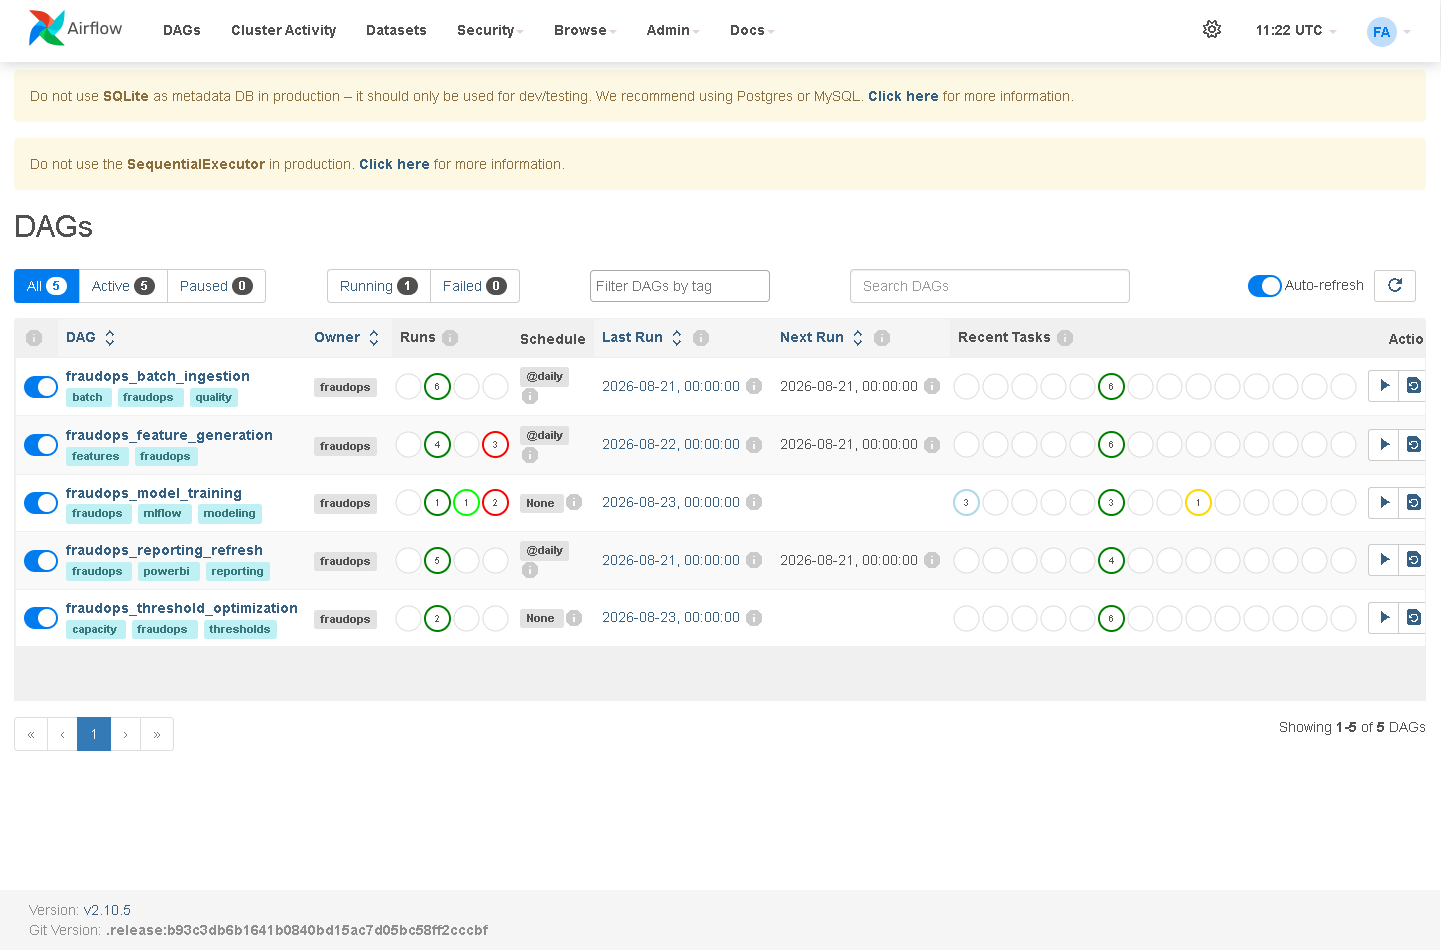
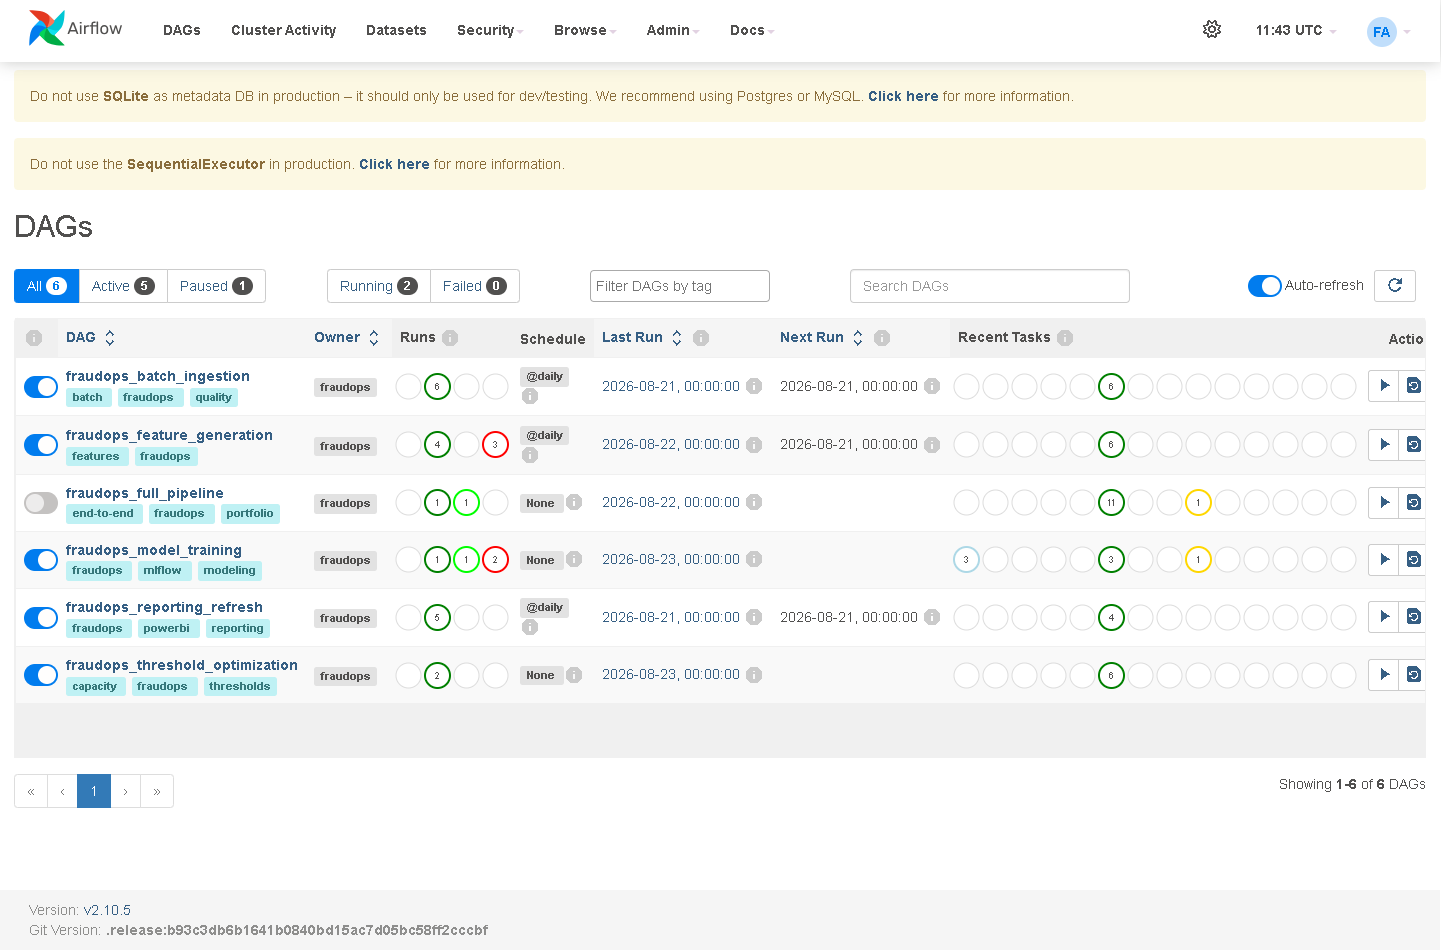
Add full pipeline DAG and governance docs

diff --git a/airflow/dags/fraudops_full_pipeline.py b/airflow/dags/fraudops_full_pipeline.py
@@ -1,0 +1,80 @@
+from __future__ import annotations
+
+from datetime import datetime
+
+from airflow import DAG
+
+from _fraudops_common import DEFAULT_ARGS, PYTHON, project_bash
+
+with DAG(
+    dag_id="fraudops_full_pipeline",
+    description="End-to-end FraudOps pipeline for local container walkthroughs.",
+    default_args=DEFAULT_ARGS,
+    start_date=datetime(2026, 7, 1),
+    schedule=None,
+    catchup=False,
+    tags=["fraudops", "end-to-end", "portfolio"],
+) as dag:
+    verify_sample_data = project_bash(
+        "verify_sample_data",
+        f"{PYTHON} -c \"from pathlib import Path; assert Path('data/sample/transaction.csv').exists(); print('sample transaction data found')\"",
+    )
+    ingest_transactions = project_bash(
+        "ingest_transactions",
+        f"{PYTHON} scripts/run_batch_ingestion.py --pipeline-run-id airflow_full_ingestion_{{{{ ds_nodash }}}}",
+    )
+    validate_ingestion = project_bash(
+        "validate_ingestion",
+        f"{PYTHON} scripts/validate_pipeline_outputs.py --pipeline-run-id airflow_full_ingestion_{{{{ ds_nodash }}}}",
+    )
+    publish_feature_snapshot = project_bash(
+        "publish_feature_snapshot",
+        f"{PYTHON} scripts/run_batch_ingestion.py --pipeline-run-id airflow_full_features_{{{{ ds_nodash }}}}",
+    )
+    validate_feature_snapshot = project_bash(
+        "validate_feature_snapshot",
+        f"{PYTHON} scripts/validate_feature_snapshot.py --pipeline-run-id airflow_full_features_{{{{ ds_nodash }}}}",
+    )
+    build_training_dataset = project_bash(
+        "build_training_dataset",
+        f"{PYTHON} scripts/build_training_dataset.py --start-date 2026-07-01 --end-date 2026-09-29",
+    )
+    validate_training_labels = project_bash(
+        "validate_training_labels",
+        f"{PYTHON} scripts/validate_training_labels.py --dataset data/curated/training_dataset.parquet",
+    )
+    train_baseline_models = project_bash(
+        "train_baseline_models",
+        f"{PYTHON} scripts/train_baseline_models.py --features data/curated/training_dataset.parquet",
+    )
+    optimize_threshold = project_bash(
+        "optimize_threshold",
+        f"{PYTHON} scripts/optimize_thresholds.py",
+    )
+    publish_reporting_views = project_bash(
+        "publish_reporting_views",
+        f"{PYTHON} scripts/publish_reporting_views.py",
+    )
+    validate_reporting_views = project_bash(
+        "validate_reporting_views",
+        f"{PYTHON} scripts/validate_reporting_views.py",
+    )
+    final_artifact_check = project_bash(
+        "final_artifact_check",
+        f"{PYTHON} -c \"from pathlib import Path; required = ['reports/modeling/model_selection.json', 'reports/modeling/threshold_recommendation.json', 'reports/orchestration/reporting_refresh_status.json']; missing = [p for p in required if not Path(p).exists()]; assert not missing, missing; print('full pipeline artifacts verified')\"",
+    )
+
+    (
+        verify_sample_data
+        >> ingest_transactions
+        >> validate_ingestion
+        >> publish_feature_snapshot
+        >> validate_feature_snapshot
+        >> build_training_dataset
+        >> validate_training_labels
+        >> train_baseline_models
+        >> optimize_threshold
+        >> publish_reporting_views
+        >> validate_reporting_views
+        >> final_artifact_check
+    )

diff --git a/README.md b/README.md
@@ -1,6 +1,11 @@
 # FraudOps
 
 [![CI](https://github.com/Sarthak2661/FraudOps/actions/workflows/ci.yml/badge.svg)](https://github.com/Sarthak2661/FraudOps/actions/workflows/ci.yml)
+[![Python 3.14](https://img.shields.io/badge/python-3.14-blue)](https://www.python.org/)
+[![PostgreSQL 17](https://img.shields.io/badge/postgresql-17-4169E1)](https://www.postgresql.org/)
+[![Dependencies Pinned](https://img.shields.io/badge/dependencies-pinned-brightgreen)](requirements.txt)
+[![Security Audit](https://img.shields.io/badge/security-pip--audit-brightgreen)](.github/workflows/ci.yml)
+[![License: MIT](https://img.shields.io/badge/license-MIT-green.svg)](LICENSE)
 
 FraudOps is a local fraud-operations platform for banking transaction risk scoring, analyst review, case management, and management reporting. It uses generated banking data only; no real customer records are required.
 
@@ -15,6 +20,8 @@ FraudOps is a local fraud-operations platform for banking transaction risk scori
 - FastAPI exposes scoring, transaction lookup, alerts, cases, model metadata, and rules, with API scoring state stored in PostgreSQL by default.
 - The React analyst console provides alert queue, investigation, case management, customer timeline, and analyst workbench views.
 - Power BI reporting views summarize executive, operations, rule, model, analyst, fraud-loss, and data-quality metrics.
+- Airflow includes a single end-to-end container DAG for ingestion, features, training, threshold optimization, and reporting.
+- Kafka includes a local scoring consumer that calls FastAPI and publishes scored and alert-created events.
 
 ## Current Boundaries
 
@@ -214,6 +221,12 @@ Run the local Kafka scoring worker after publishing sample raw events:
 python streaming\score_transactions_consumer.py --max-messages 3
 ```
 
+Run the full Airflow pipeline inside the Airflow container:
+
+```powershell
+docker compose --profile airflow run --rm airflow-scheduler airflow dags test fraudops_full_pipeline 2026-08-22
+```
+
 Full local instructions are in `docs/phase10_12_orchestration_streaming.md`.
 
 Local verification has been run against the Compose profiles. The Airflow DAGs import, execute with task logs and retry history, and the Kafka path publishes scored and alert-created events after calling the FastAPI scoring API.
@@ -295,6 +308,8 @@ Kafka UI
 - `docs/phase3_batch_ingestion_quality.md`: ingestion, validation, rejected records, and pipeline audit
 - `docs/phase4_exploration_features.md`: exploratory analysis and point-in-time features
 - `docs/feature_dictionary.md`: feature definitions and leakage notes
+- `docs/data_card.md`: synthetic dataset scope, quality controls, and limitations
+- `docs/model_card.md`: model scope, metrics, risks, and monitoring recommendations
 - `docs/phase5_baseline_models_mlflow.md`: model training and experiment tracking
 - `docs/phase6_rules_decision_engine.md`: rules, risk scores, and decisions
 - `docs/phase7_fastapi_service.md`: API endpoints and scoring flow
@@ -303,6 +318,7 @@ Kafka UI
 - `docs/powerbi_metric_dictionary.md`: metric definitions and SQL lineage
 - `docs/release_plan.md`: version 1, 2, and 3 scope
 - `docs/security_notes.md`: local security assumptions and deployment controls
+- `docs/adr/0001-synthetic-data-only.md`: decision record for using generated data only
 
 ## License
 

diff --git a/docs/data_card.md b/docs/data_card.md
@@ -1,0 +1,102 @@
+# FraudOps Data Card
+
+## Dataset Overview
+
+FraudOps uses generated synthetic banking data to demonstrate fraud operations workflows without using real customer records. The dataset models customers, accounts, cards, devices, merchants, transactions, fraud labels, rules, alerts, cases, model metadata, and data-quality checks.
+
+## Purpose
+
+The dataset is designed for:
+
+- Local fraud analytics and scoring demonstrations.
+- Batch ingestion and quality-control testing.
+- Point-in-time-safe feature engineering.
+- Baseline model training and threshold experimentation.
+- Analyst-console and Power BI reporting walkthroughs.
+
+## Source
+
+- Generated by `scripts/generate_synthetic_data.py`.
+- Current seed: `42`.
+- Current sample output: `data/sample/`.
+- No real customer data, payment data, credentials, or personally identifiable information should be added.
+
+## Current Sample Size
+
+| Entity | Count |
+|---|---:|
+| Customers | 500 |
+| Accounts | 500 |
+| Cards | 643 |
+| Devices | 820 |
+| Merchants | 200 |
+| Transactions | 10,000 |
+| Fraud rules | 6 |
+| Threshold configurations | 1 |
+| Model versions | 1 |
+| Data-quality rules | 2 |
+
+Observed fraud transactions: 200.
+
+Observed fraud rate: 2.00%.
+
+## Simulated Fraud Scenarios
+
+- Behavior deviation
+- Card testing
+- Impossible travel
+- Merchant fraud burst
+- New-device takeover
+- Transaction velocity
+- Normal travel false positive
+
+The normal-travel false-positive scenario is intentionally included so the pipeline must distinguish suspicious-looking legitimate behavior from confirmed fraud.
+
+## Data Layers
+
+- Raw: Parquet batches under `data/raw/`
+- Validated: accepted records under `data/validated/`
+- Rejected: invalid records and rejection reasons under `data/rejected/`
+- Curated/features: analytical features and pipeline summaries under `data/curated/`
+- Reporting: PostgreSQL views under the `fraudops_reporting` schema
+
+## Labeling
+
+Fraud labels are synthetic and include delayed-label fields such as:
+
+- `fraud_label`
+- `label_source`
+- `label_available_at`
+- `chargeback_date`
+- `analyst_confirmed_at`
+
+This approximates fraud operations where the final label can arrive after the transaction date.
+
+## Quality Controls
+
+The pipeline validates:
+
+- Required fields
+- Type compatibility
+- Unique transaction IDs
+- Positive amounts
+- Valid timestamps
+- Valid currencies
+- Allowed channels and statuses
+- Referential checks against customers, cards, devices, and merchants
+
+Rejected records are quarantined rather than silently deleted.
+
+## Known Limitations
+
+- Synthetic data is useful for demonstrating architecture and workflow, but it is not a substitute for production data validation.
+- Entity behavior is generated from scenario logic and seeded randomness.
+- Population diversity, fraud typologies, customer demographics, and adversarial behavior are simplified.
+- Power BI reporting includes seeded management rows when operational alert/case tables are empty.
+
+## Governance
+
+- Synthetic data only is a project requirement.
+- Do not commit real customer data or production extracts.
+- Keep secrets in environment variables or local ignored files.
+- See `docs/adr/0001-synthetic-data-only.md` and `docs/security_notes.md`.

diff --git a/docs/model_card.md b/docs/model_card.md
@@ -1,0 +1,79 @@
+# FraudOps Model Card
+
+## Model Overview
+
+FraudOps trains baseline fraud-risk models for synthetic banking transactions and uses the selected model as one input to a rules and cost-sensitive decision engine. The current selected model is `hist_gradient_boosting`.
+
+## Intended Use
+
+- Rank synthetic banking transactions by fraud risk for a local analyst-console demonstration.
+- Compare model, rule, threshold, and financial-cost behavior in a portfolio-scale fraud operations workflow.
+- Support learning and discussion around chronological splits, point-in-time-safe features, and experiment tracking.
+
+## Not Intended For
+
+- Production fraud decisions.
+- Real customer risk scoring.
+- Automated account closure, legal action, or adverse customer decisions.
+- Use on real personally identifiable information or payment data.
+
+## Training Data
+
+- Source: generated synthetic banking data only.
+- Records used in current training artifact: 1,314 training rows, 438 validation rows, and 439 final-test rows.
+- Training fraud rate: 2.21%.
+- Split method: chronological split. The final test set is held out until model selection is complete.
+- Feature version: `phase4_features_v1`.
+
+## Features
+
+The model uses point-in-time-safe transaction, customer behavior, device, and merchant features. Examples include:
+
+- `transaction_amount`
+- `is_new_device`
+- `amount_to_customer_avg_ratio`
+- `transactions_last_10m`
+- `unique_countries_last_7d`
+- `device_fraud_rate_history`
+- `merchant_fraud_rate_30d`
+
+Full definitions are in `docs/feature_dictionary.md`.
+
+## Current Evaluation
+
+Current final-test metrics from `reports/modeling/selected_model_final_test_metrics.json`:
+
+| Metric | Value |
+|---|---:|
+| Precision | 0.8333 |
+| Recall | 0.5556 |
+| F1 | 0.6667 |
+| PR-AUC | 0.6611 |
+| ROC-AUC | 0.8677 |
+| Fraud-value recall | 0.6787 |
+| False-positive rate | 0.0023 |
+| Recall at fixed review capacity | 1.0000 |
+| Expected financial cost | 1307.54 |
+| Inference latency per record | 0.7252 ms |
+| Threshold | 0.05 |
+
+## Selection Rationale
+
+`hist_gradient_boosting` was selected because it had the lowest validation expected financial cost while preserving PR-AUC and recall-at-capacity visibility. The final test set remained held out until after model selection.
+
+## Risks And Limitations
+
+- The dataset is synthetic and cannot represent the full complexity of real banking behavior.
+- Reported metrics are useful for project validation, not production performance claims.
+- Labels are generated by scenario logic and delayed-label simulation, not customer disputes or real chargebacks.
+- The model can still create false positives and false negatives; decisions should remain explainable and reviewable.
+- Model artifacts are excluded from Git. Recreate them with `python scripts\train_baseline_models.py`.
+
+## Monitoring Recommendations
+
+Before any production-like use, add:
+
+- Data drift monitoring for amount, channel, country, merchant category, new-device rate, and velocity.
+- Prediction drift monitoring for risk-score distribution, review rate, hold rate, and alert volume.
+- Label-backed performance monitoring once delayed labels become available.
+- Manual approval before promoting a challenger model.

diff --git a/docs/adr/0001-synthetic-data-only.md b/docs/adr/0001-synthetic-data-only.md
@@ -1,0 +1,20 @@
+# ADR 0001: Synthetic Data Only
+
+## Status
+
+Accepted
+
+## Context
+
+FraudOps demonstrates banking fraud detection, analyst review, model training, and reporting workflows. Real banking data can contain personal information, payment identifiers, account data, dispute history, device metadata, and regulated financial records. Using real data would create privacy, security, legal, and governance risks that are unnecessary for a portfolio project.
+
+## Decision
+
+FraudOps will use generated synthetic data only. The repository must not include real customer data, production payment records, private credentials, or copied bank datasets with uncertain licensing.
+
+## Consequences
+
+- The project can be shared publicly without exposing real customers.
+- Fraud scenarios, delayed labels, devices, merchants, false positives, and analyst outcomes can be modeled deliberately.
+- Model metrics are demonstration metrics, not production performance claims.
+- Any future production-like deployment must replace synthetic assumptions with formal data governance, privacy review, access controls, and validation against approved data sources.

diff --git a/docs/phase10_12_orchestration_streaming.md b/docs/phase10_12_orchestration_streaming.md
@@ -24,6 +24,7 @@ DAG files live in `airflow/dags/`.
 | `fraudops_model_training` | Training dataset validation, baseline training, MLflow artifact checks | Manual |
 | `fraudops_threshold_optimization` | Threshold recommendation from validation model comparison | Manual |
 | `fraudops_reporting_refresh` | Publish and validate PostgreSQL reporting views | Daily |
+| `fraudops_full_pipeline` | End-to-end local container walkthrough for ingestion, features, training, thresholds, and reporting | Manual |
 
 ## Airflow Local Commands
 
@@ -57,6 +58,7 @@ docker logs fraudops-airflow-scheduler --tail 100
 Run a cold local DAG verification from one-off Airflow containers:
 
 ```powershell
+docker compose --profile airflow run --rm airflow-scheduler airflow dags test fraudops_full_pipeline 2026-08-22
 docker compose --profile airflow run --rm airflow-scheduler airflow dags test fraudops_batch_ingestion 2026-08-21
 docker compose --profile airflow run --rm airflow-scheduler airflow dags test fraudops_feature_generation 2026-08-22
 docker compose --profile airflow run --rm airflow-scheduler airflow dags test fraudops_reporting_refresh 2026-08-21

diff --git a/docs/release_plan.md b/docs/release_plan.md
@@ -41,10 +41,12 @@ Included scope:
 
 - Airflow orchestration through Docker Compose profiles
 - Scheduled or manual DAGs for ingestion, features, training, threshold optimization, and reporting
+- A manual end-to-end Airflow DAG that runs the local pipeline inside the Airflow container
 - Local Kafka and Kafka UI profile with topic conventions and sample transaction events
 - Python Kafka scoring consumer that calls FastAPI and publishes scored and alert-created events
 - Airflow UI, retries, task logs, and pipeline validation artifacts for scheduled-job observability
 - README screenshots for Airflow and streaming workflows
+- Model card, data card, and synthetic-data-only architecture decision record
 
 ## Version 3: Feedback, CI, Security, and AWS Deployment
 
